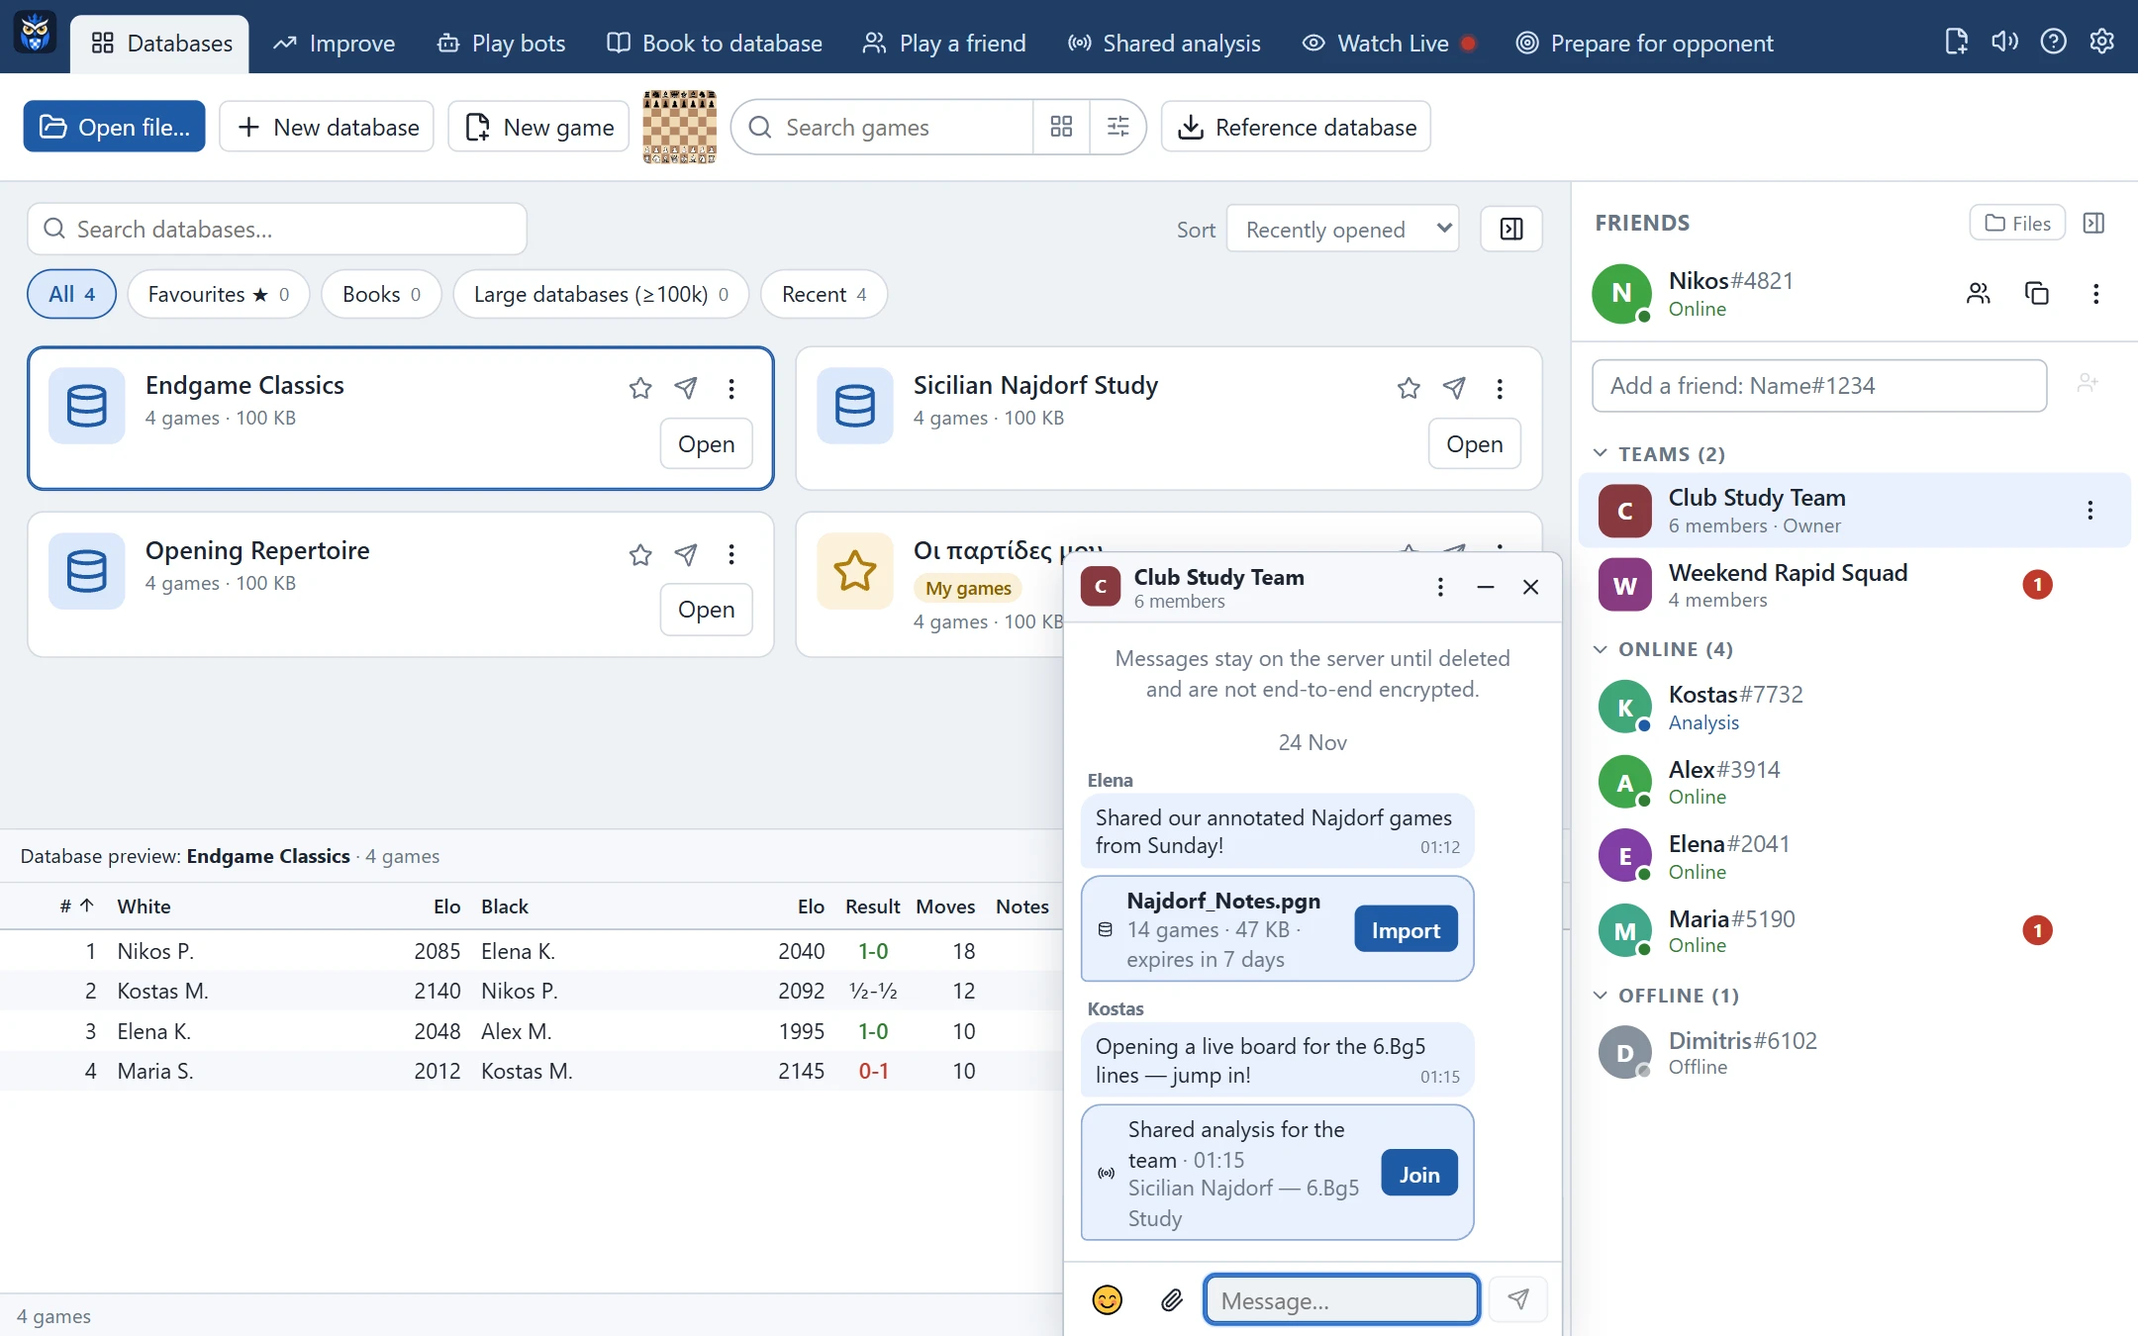
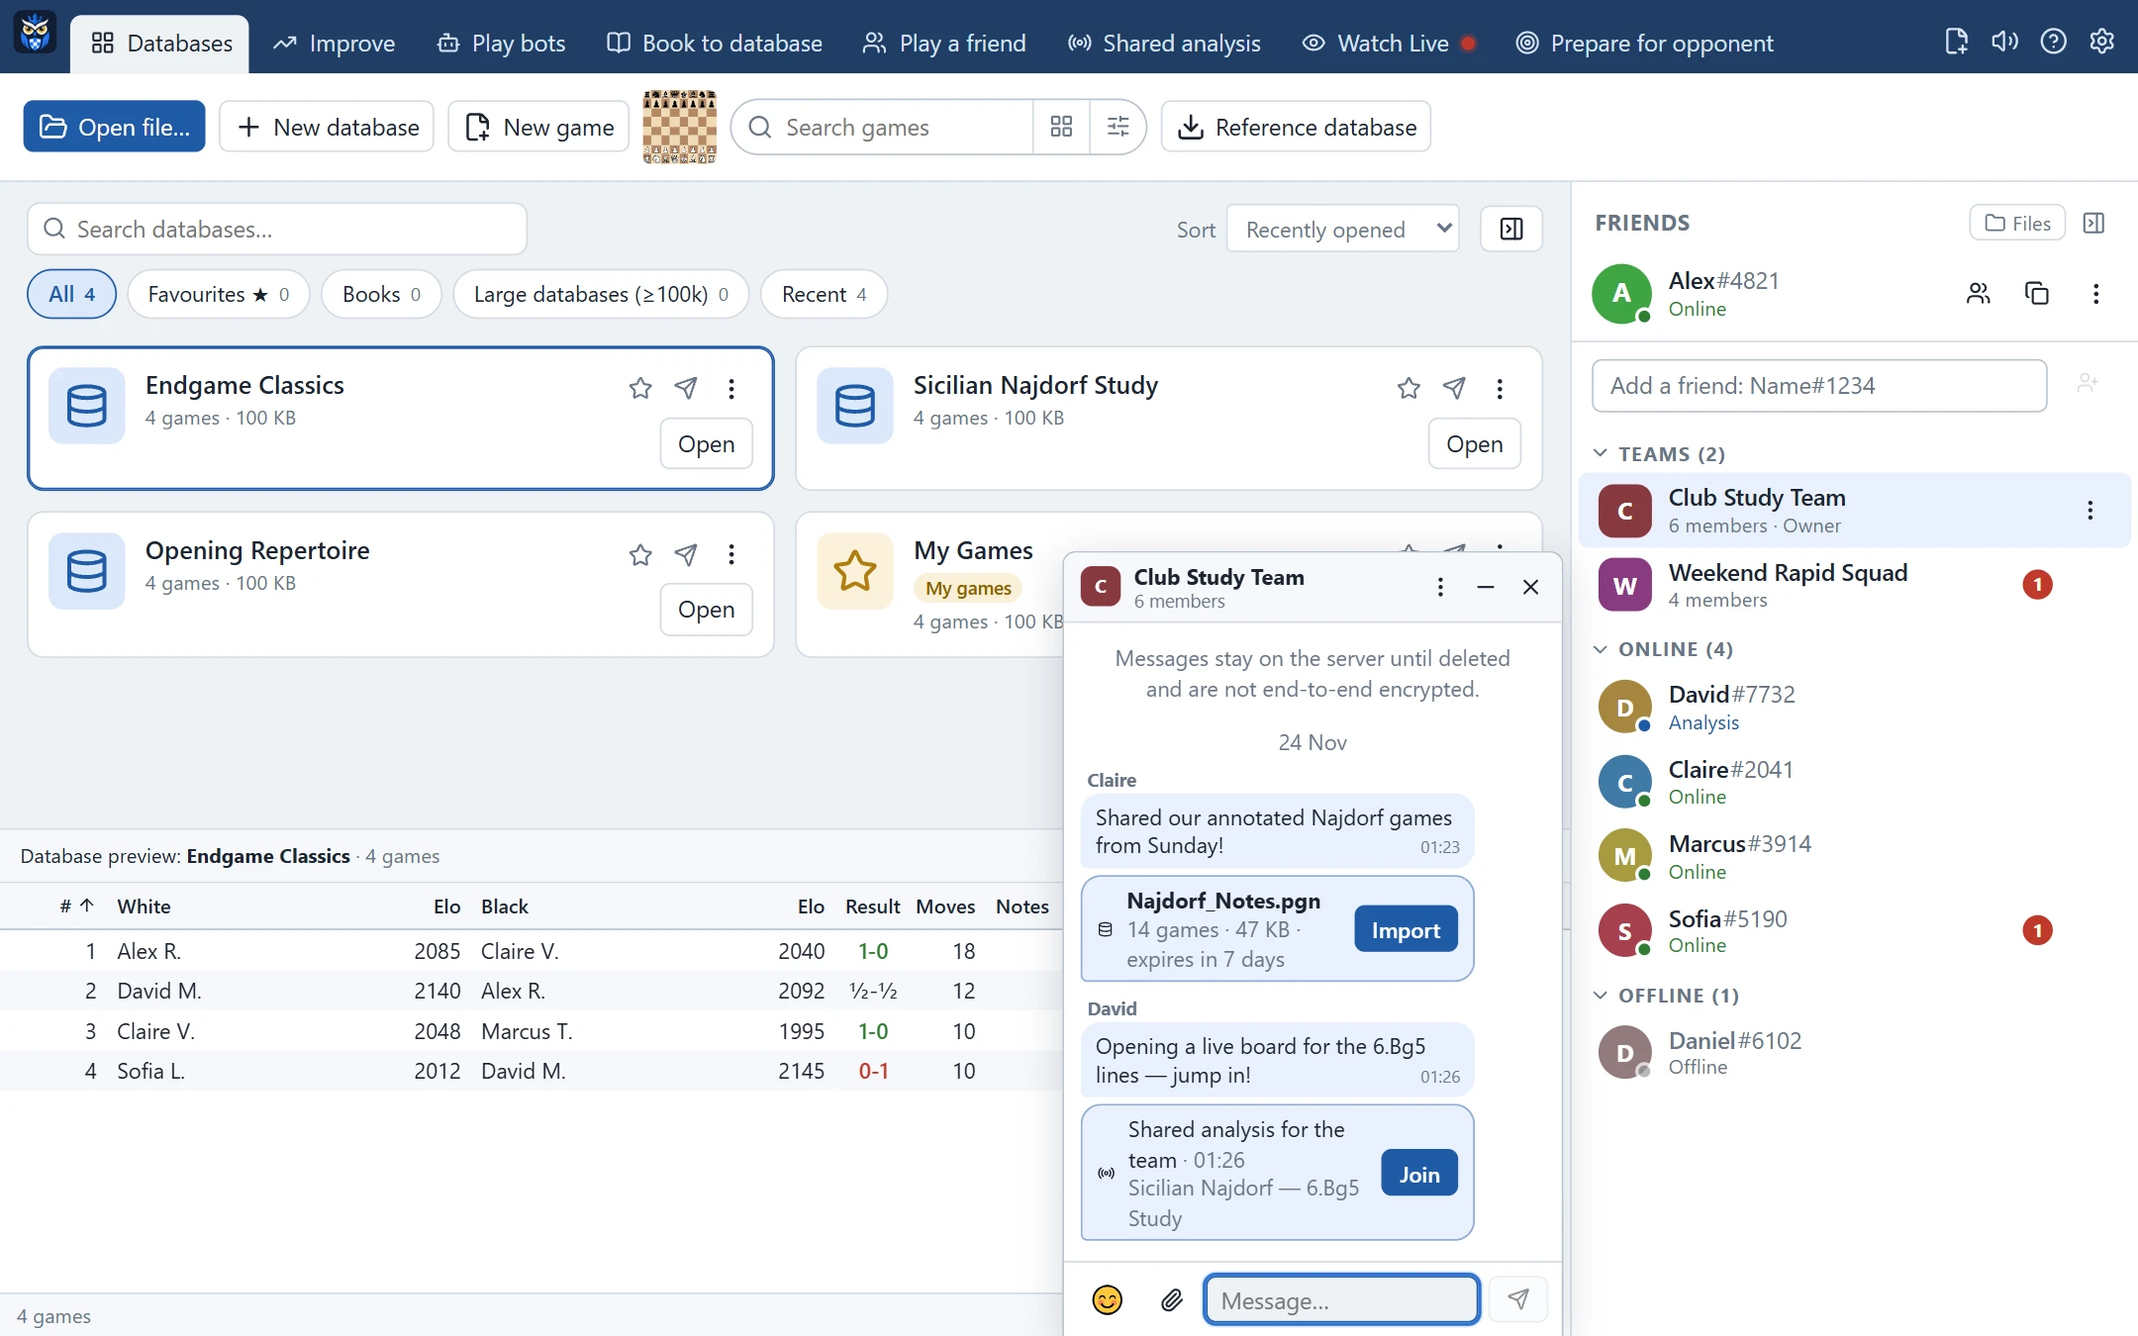
docs: English-first README, updated hero copy and clean EN screenshots

diff --git a/src/web/watch/WatchWindow.tsx b/src/web/watch/WatchWindow.tsx
@@ -330,7 +330,7 @@ export function WatchWindow({ active }: { active: boolean }) {
                         ? L('Άνοιξε η σελίδα του Lichess στον browser σου: πάτα εκεί «Έγκριση». Μετά γύρνα εδώ.', 'The Lichess page opened in your browser: press “Authorize” there, then come back.')
                         : L(
                             'Για τα τουρνουά (το Lichess το ζητά από το 2026). Μία φορά: το token μένει σε αυτόν τον υπολογιστή για περίπου έναν χρόνο. Μόνο ανάγνωση: δεν βλέπει τον κωδικό σου ούτε παίζει για σένα.',
-                            'For the tournaments (Lichess requires it since 2026). Once: the token stays on this computer for about a year. Read-only: it never sees your password or plays for you.',
+                            'Required by Lichess for live tournament broadcasts. Sign in once — the read-only token stays on your computer for about a year and never sees your password.',
                           )}
                     </p>
                   </>

diff --git a/src/server/library.ts b/src/server/library.ts
@@ -188,7 +188,7 @@ export class Library {
 
   private ensureDefaults(): void {
     const dir = this.settings.databasesDir;
-    const want: Array<[DbEntry['kind'], string]> = [['mygames', 'Οι παρτίδες μου']];
+    const want: Array<[DbEntry['kind'], string]> = [['mygames', this.settings.language === 'el' ? 'Οι παρτίδες μου' : 'My Games']];
     for (const [kind, name] of want) {
       if (this.entries.some((e) => e.kind === kind)) continue;
       // παλιό αρχείο .skdb με το ίδιο όνομα: το ίδιο (όχι δεύτερο δίπλα του, με κοινά .pos/.tree)

diff --git a/README.md b/README.md
@@ -1,20 +1,33 @@
 # Ruru Chess
 
-Δωρεάν βάση δεδομένων και ανάλυση σκακιού για Windows 10/11.
-Ανοίγει τις δικές σου βάσεις **PGN**, **ChessBase (.cbh και αρχειοθήκες .cbv)** και **Scid (.si4)**,
-και προσφέρει σκακιέρα, μηχανή ανάλυσης, δέντρο ανοιγμάτων, αναζητήσεις, εκπαίδευση και στατιστικά.
+Free, open-source chess database, analysis, and study workspace for Windows 10/11.
 
-## Εγκατάσταση
+**Website:** https://ruruchess.com  
+**Latest Release:** https://github.com/RuruChess/ruru-chess/releases/latest
 
-Ο εγκαταστάτης **`Ruru-Chess-Setup.exe`** έχει μέσα το Node.js και το Electron και εγκαθίσταται χωρίς δικαιώματα
-διαχειριστή. Στον οδηγό διαλέγεις αν θα κατέβει το Stockfish. Δεν περιλαμβάνει βάση παρτίδων.
-Υπάρχει και φορητή έκδοση (**`Ruru-Chess-Portable.zip`**: αποσυμπίεση και άνοιγμα του `Ruru.exe`).
+Ruru Chess opens **PGN**, **ChessBase (`.cbh`, `.cbv`)**, and **Scid (`.si4`)** databases directly on your computer — even inside `.7z` or `.zip` archives — and brings Stockfish analysis, PDF chess book conversion, opponent preparation, live shared study, friends & study teams, Watch Live tournaments, tactics, and lessons into one fast standalone Windows app.
 
-## Εκκίνηση από τον κώδικα
+## Download & Install
 
-Διπλό κλικ στο `Ruru.cmd`. Την πρώτη φορά εγκαθιστά τα πακέτα και χτίζει το περιβάλλον.
+- **Installer (`Ruru-Chess-Setup.exe`)** — standalone Windows installer (bundles Node.js and Electron, no admin rights required). During setup you choose whether to download Stockfish on first launch. No game database is bundled.
+- **Portable (`Ruru-Chess-Portable.zip`)** — unzip anywhere and run `Ruru.exe`.
+- **Checksums (`SHA256SUMS.txt`)** — SHA-256 verification hashes for every release file.
 
-Από γραμμή εντολών:
+## Features
+
+- **Databases & Search:** Open `.pgn`, `.cbh` (with comments, variations, symbols, arrows), `.cbv`, and `.si4` without modifying original files. Fast SQLite indexes for millions of games; search by player, Elo, ECO, year, exact position, pawn structure, material balance, or piece maneuvers; duplicate detection and database cleanup.
+- **Analysis & Engines:** Multi-line UCI engine analysis (Stockfish, Lc0, Maia), second engine, threat display, evaluation bar, board arrows, full-game blunder check with accuracy & ACPL graph, opening reference tree, novelty finder, and optional 7-piece Syzygy endgame tablebases.
+- **PDF Book → Database:** Convert digital PDF chess books (and experimental OCR for scanned pages) into structured, playable databases with variations, commentary, and exercise training mode — 100% locally on your PC.
+- **Shared Analysis & Video:** Analyze games live with a link on `play.ruruchess.com` — guests join from their browser with no account and see moves, variations, arrows, comments, and your engine in real time. Includes end-to-end encrypted WebRTC voice/camera, chat, and an embedded YouTube/Twitch/Kick video panel inside Ruru (“For everyone” or “Only for me”).
+- **Friends & Study Teams:** Optional account (no email or password, 16+) for a permanent friends list and study teams with roles, live presence, chat, direct PGN file sharing with one-click import, and one-click invites to play or analyze together.
+- **Opponent Preparation:** Combine local FIDE/OTB databases with public Lichess and Chess.com profiles into one opponent dossier with White/Black scores, Elo chart, and an interactive opening repertoire tree.
+- **Watch Live & Play a Friend:** Follow live chess tournaments with real clocks, open any live game for Stockfish analysis or one-click Shared analysis, or challenge a friend by link in any browser.
+- **Training & Bots:** Adaptive Glicko-2 tactics trainer with spaced repetition, timed runs, streaks, cycles, and daily puzzle; 50 interactive strategy lessons; 36 endgame lessons & engine drills; and 10 human-like bots (plus optional Maia networks).
+- **Languages & Themes:** English and Greek UI, figurine / English / Greek notation, light & dark themes, multi-window or tabbed layout.
+
+## Run from Source
+
+Requires **Node.js 24+** (https://nodejs.org).
 
 ```bash
 npm install
@@ -22,68 +35,27 @@ npm run build
 npm start
 ```
 
-Η εφαρμογή ακούει μόνο τοπικά, στο `http://127.0.0.1:4747`. Για ανάπτυξη με άμεση
-ανανέωση: `npm run dev` (ανοίγει το `http://127.0.0.1:5317`).
+Or double-click `Ruru.cmd` on Windows.
 
-Απαιτείται Node.js 24 ή νεότερο (https://nodejs.org)· το `Ruru.cmd` το ελέγχει και, αν λείπει,
-ανοίγει τη σελίδα λήψης.
+- Local server listens only on `http://127.0.0.1:4747`.
+- Development mode with hot reload: `npm run dev` (`http://127.0.0.1:5317`).
+- Run tests: `npm test` (`npm run typecheck`, `npm run smoke`, `npm run e2e`).
 
-## Διανομή
+## Packaging & Website
 
-`node scripts/make-release.mjs` φτιάχνει στο `release/ruru` τα `Ruru-Chess-Setup.exe`
-(Inno Setup, `installer/Ruru.iss`), `Ruru-Chess-Portable.zip` και `SHA256SUMS.txt`. Χωρίς συμπληρωμένο
-[PRIVACY.md](PRIVACY.md) δεν βγάζει έκδοση· με `--draft` βγάζει δοκιμαστική στο `release/ruru-draft`.
+- **Release package:** `node scripts/make-release.mjs` builds `Ruru-Chess-Setup.exe`, `Ruru-Chess-Portable.zip`, and `SHA256SUMS.txt` into `release/ruru`.
+- **Static website:** `node scripts/build-site.mjs --check` builds the English (`/`) and Greek (`/el/`) site into `site/dist`.
 
-## Ιστοσελίδα
+## Data Storage
 
-`node scripts/build-site.mjs` φτιάχνει τη στατική σελίδα και την πολιτική απορρήτου στο `site/dist`
-(αγγλικά στη ρίζα, ελληνικά στο `/el/`). Σύνδεσμοι από το `package.json` (`homepage`, `repository`,
-`funding`, `bugs.email`). Με `--check` σταματά αν λείπει κάτι για τη δημοσίευση.
+- Databases are stored locally in `Documents\Ruru\*.kbdb` (SQLite) alongside position/opening indexes (`*.pos`, `*.tree`).
+- Settings and catalog metadata live in a hidden subfolder inside your databases folder.
+- Your original PGN / ChessBase / Scid files are never modified; use **Export PGN** anytime.
 
-## Τι κάνει
+## Privacy, Terms & Licenses
 
-- **Βάσεις**: άνοιγμα PGN, ChessBase .cbh (μαζί με σχόλια, βαριάντες, σύμβολα,
-  βέλη, ελληνικά ονόματα) και .cbv, .7z/.zip με PGN χωρίς αποσυμπίεση στον δίσκο, νέες
-  βάσεις, αντιγραφή παρτίδων, εξαγωγή PGN, διπλές παρτίδες, διαγραφή/επαναφορά,
-  **βελτίωση βάσης** (ενοποίηση ονομάτων, Elo και FIDE ID από βάση αναφοράς).
-- **Λίστα παρτίδων** για εκατομμύρια παρτίδες, με ταξινόμηση, πολλαπλή επιλογή και
-  προεπισκόπηση.
-- **Αναζήτηση**: παίκτες (και με τα χρώματα αντίστροφα), τουρνουά, τόπος, σχολιαστής,
-  έτος, Elo, ECO, αποτέλεσμα, μήκος, σχολιασμένες και **αναζήτηση θέσης**.
-- **Δέντρο ανοιγμάτων** από οποιαδήποτε βάση (παρτίδες, %, Elo, επίδοση, έτος) και
-  tablebases έως 7 κομμάτια από το Lichess.
-- **Παίκτες**: φάκελος παίκτη με σκορ, γράφημα Elo, ανοίγματα και αντιπάλους.
-- **Τουρνουά**: πίνακας αποτελεσμάτων και παρτίδες τουρνουά.
-- **Σκακιέρα**: κινήσεις με σύρσιμο ή κλικ, βαριάντες, σχόλια πριν/μετά, σύμβολα
-  (!, ?, ±, …), βέλη και χρωματιστά τετράγωνα (δεξί κλικ), επεξεργασία θέσης,
-  στοιχεία παρτίδας, αναίρεση/επανάληψη, αντιγραφή/επικόλληση PGN και FEN,
-  εξαγωγή διαγράμματος.
-- **Μηχανή** (UCI, π.χ. Stockfish): άπειρη ανάλυση, πολλές γραμμές, απειλή, δεύτερη
-  μηχανή, μπάρα αξιολόγησης, βέλη.
-- **Πλήρης ανάλυση / έλεγχος λαθών**: ?!, ?, ?? με την καλύτερη συνέχεια, αξιολόγηση
-  σε κάθε κίνηση, γράφημα, ακρίβεια και μέση απώλεια ανά παίκτη.
-- **Εκπαίδευση**: «μάντεψε την κίνηση» και **εκπαίδευση ανοιγμάτων** από οποιαδήποτε
-  βάση-ρεπερτόριο, με επανάληψη σε διαστήματα. **Παιχνίδι με τη μηχανή** σε 21 επίπεδα.
-- Ελληνικά και αγγλικά, σημειογραφία με εικονίδια, αγγλικά ή ελληνικά γράμματα
-  (Ρ, Β, Π, Α, Ι), φωτεινό και σκοτεινό θέμα.
+- **Privacy Policy:** [PRIVACY.md](PRIVACY.md) (English & Greek)
+- **Terms of Use:** [TERMS.md](TERMS.md) (English & Greek)
+- **Third-Party Credits & Notices:** [CREDITS.md](CREDITS.md) · [licenses/NOTICES.txt](licenses/NOTICES.txt)
 
-## Πού αποθηκεύονται τα δεδομένα
-
-- Βάσεις: `Έγγραφα\Ruru\*.kbdb` (SQLite) με τα ευρετήρια θέσεων `*.pos` και `*.tree`.
-- Ρυθμίσεις και κατάλογος βάσεων: αποθηκεύονται σε κρυφό υποφάκελο μέσα στον φάκελο των βάσεων.
-- Τα αρχικά αρχεία PGN/ChessBase **δεν αλλάζουν ποτέ**. Το άνοιγμα δημιουργεί αντίγραφο
-  σε μορφή Ruru, και οι αλλαγές αποθηκεύονται εκεί. Με «Εξαγωγή PGN» τις παίρνεις πίσω.
-
-## Δοκιμές
-
-```bash
-npm test
-```
-
-## Άδειες
-
-Ο κώδικας του Ruru Chess διατίθεται με άδεια [GPL-3.0-or-later](LICENSE), με μέρη
-[AGPL-3.0](licenses/AGPL-3.0.txt) από το Lichess, χωρίς καμία εγγύηση. Δείτε τα
-[CREDITS.md](CREDITS.md) και [licenses/NOTICES.txt](licenses/NOTICES.txt). Το Ruru Chess δεν σχετίζεται με
-την ChessBase GmbH, το Lichess, το Chess.com, τη FIDE, το YouTube, το Twitch, το Kick, το Stockfish, το GitHub
-ή οποιαδήποτε άλλη υπηρεσία αναφέρεται· τα σήματα ανήκουν στους κατόχους τους.
+Ruru Chess is licensed under **[GPL-3.0-or-later](LICENSE)**, with components under **[AGPL-3.0](licenses/AGPL-3.0.txt)** from Lichess, provided with no warranty. Ruru Chess is not affiliated with ChessBase GmbH, Lichess, Chess.com, FIDE, YouTube, Twitch, Kick, Stockfish, GitHub, or any other mentioned service; all trademarks belong to their respective owners.
